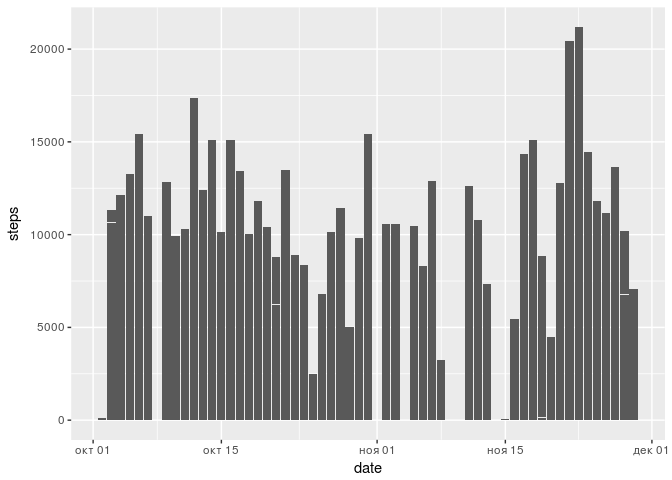
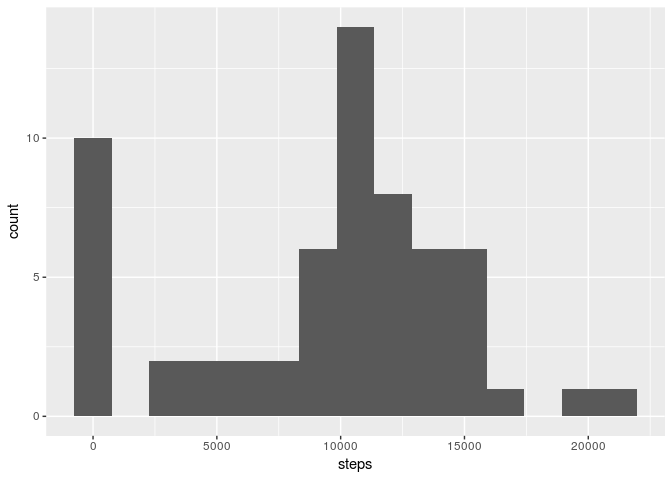
Changed bar to hist

diff --git a/PA1_template.html b/PA1_template.html
@@ -153,9 +153,9 @@ head(steps_per_day)</code></pre>
 ## 4 2012-10-04 12116
 ## 5 2012-10-05 13294
 ## 6 2012-10-06 15420</code></pre>
-<pre class="r"><code>g &lt;- ggplot(data = na.omit(data), aes(x = date, y = steps))
-g + geom_bar(stat = &quot;identity&quot;) </code></pre>
[1 lines of base64/hex data omitted]
+<pre class="r"><code>g &lt;- ggplot(data = steps_per_day, aes(x = steps))
+g + geom_histogram(bins = 15) </code></pre>
[1 lines of base64/hex data omitted]
 <pre class="r"><code>### Mean of the total number of steps taken per day
 mean(steps_per_day$steps, na.rm = TRUE)</code></pre>
 <pre><code>## [1] 9354.23</code></pre>
@@ -199,9 +199,9 @@ steps_per_day_f &lt;- filled_data %&gt;%
                    group_by(date) %&gt;%
                    summarise(steps = sum(steps))
 
-g &lt;- ggplot(data = filled_data, aes(x = date, y = steps))
-g + geom_bar(stat = &quot;identity&quot;) ### !!! Bar not hist</code></pre>
[1 lines of base64/hex data omitted]
+g &lt;- ggplot(data = steps_per_day_f, aes(x = steps))
+g + geom_histogram(bins = 15) </code></pre>
[1 lines of base64/hex data omitted]
 <pre class="r"><code>###Mean
 
 mean(steps_per_day_f$steps)</code></pre>
@@ -210,7 +210,7 @@ mean(steps_per_day_f$steps)</code></pre>
 
 median(steps_per_day_f$steps)</code></pre>
 <pre><code>## [1] 10766.19</code></pre>
-<pre class="r"><code>#### The result is't differ much from data with NA's. Histobram is the same, but has more obervations</code></pre>
+<pre class="r"><code>#### The result is't differ much from data with NA's. Histobram is the same, but has more obervations. Also less 0 because NA was filled</code></pre>
 </div>
 <div id="are-there-differences-in-activity-patterns-between-weekdays-and-weekends" class="section level2">
 <h2>Are there differences in activity patterns between weekdays and weekends?</h2>

diff --git a/PA1_template.md b/PA1_template.md
@@ -48,8 +48,8 @@ head(steps_per_day)
 ```
 
 ```r
-g <- ggplot(data = na.omit(data), aes(x = date, y = steps))
-g + geom_bar(stat = "identity") 
+g <- ggplot(data = steps_per_day, aes(x = steps))
+g + geom_histogram(bins = 15) 
 ```
 
 ![](PA1_template_files/figure-html/unnamed-chunk-2-1.png)<!-- -->
@@ -150,8 +150,8 @@ steps_per_day_f <- filled_data %>%
                    group_by(date) %>%
                    summarise(steps = sum(steps))
 
-g <- ggplot(data = filled_data, aes(x = date, y = steps))
-g + geom_bar(stat = "identity") ### !!! Bar not hist
+g <- ggplot(data = steps_per_day_f, aes(x = steps))
+g + geom_histogram(bins = 15) 
 ```
 
 ![](PA1_template_files/figure-html/unnamed-chunk-5-1.png)<!-- -->
@@ -177,7 +177,7 @@ median(steps_per_day_f$steps)
 ```
 
 ```r
-#### The result is't differ much from data with NA's. Histobram is the same, but has more obervations
+#### The result is't differ much from data with NA's. Histobram is the same, but has more obervations. Also less 0 because NA was filled
 ```
 
 ## Are there differences in activity patterns between weekdays and weekends?
